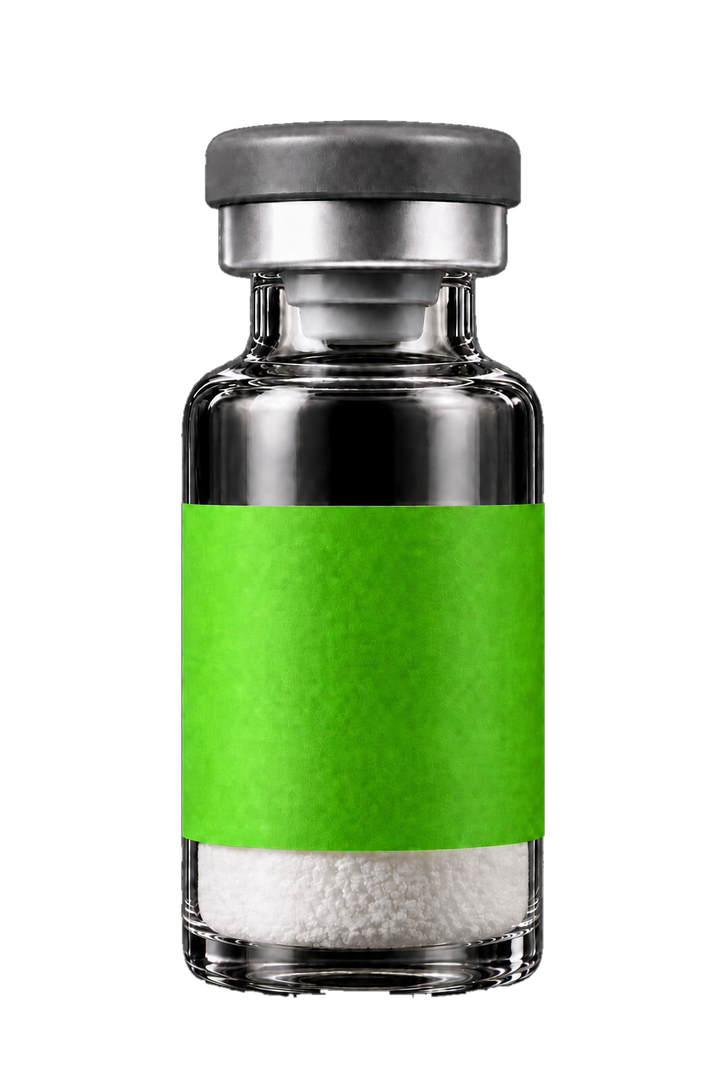
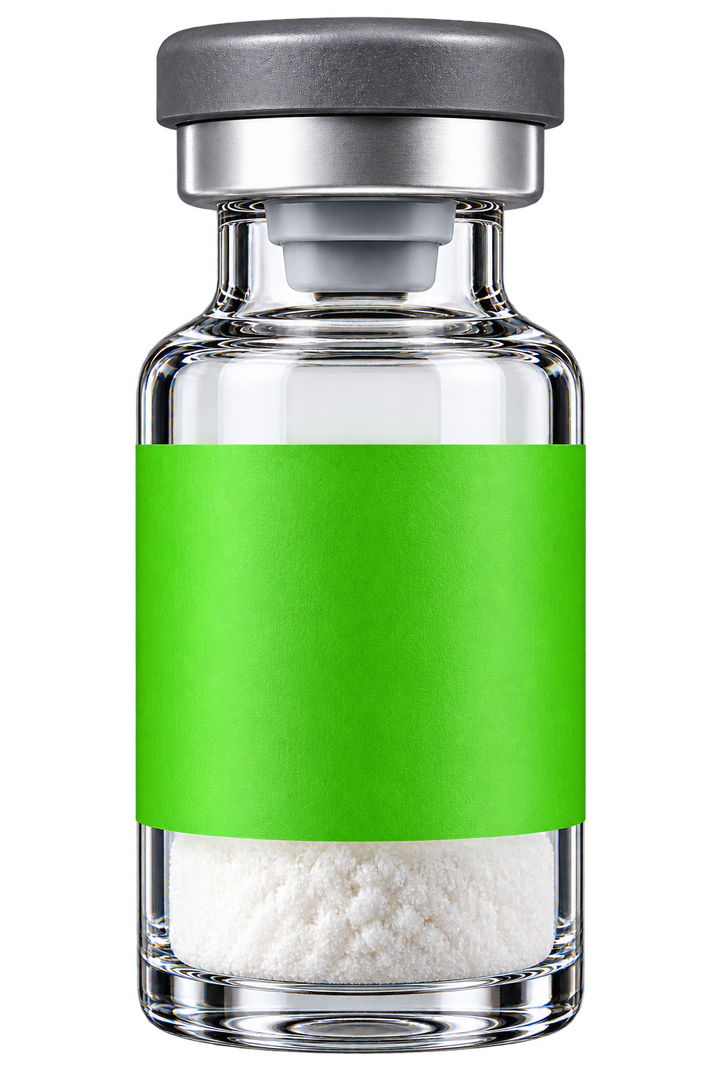
Undisclosed: your brighter 10 mL base, and one glass brightness for all sizes (#79)
Installs the new 10 mL white-powder base. Its glass is genuinely clear —
the empty shoulder measures 179 mean luminance against the old base's 68 —
so the 10 mL stops reading as a black bottle.

Downscaled to 720x1080 to match every other base. The source was 1024x1536,
and at that size a hero spin frame costs 17.5 ms, over the 16.7 ms budget
for 60 fps; at 720 it is 8.5 ms. The vial still lands sharper than before,
because it fills more of its frame in the new photo: 451 px of vial width
against the old 364 px.

That alone would only have moved the problem, because the glass pass ran a
fixed gamma on every base. The same curve applied to a bright photo and a
dark one leaves them exactly as far apart as they started, so with the new
base in place the 3 mL read smoky next to a 10 mL brighter than it — the
mirror image of the complaint that started this.

So the pass now targets a brightness instead of applying a curve. Each base
is measured on its own EMPTY SHOULDER — the band of bare glass between the
neck and the top of the label, which holds no powder and no paper — and
gets the gamma that lands that band on GLASS_TARGET. Bases shot lighter or
darker now finish at the same glass.

Measured on the composed vial, the four bases land at 127.0 / 132.4 /
126.5 / 139.8: a spread of 13 luminance where the fixed gamma left about
112. Per-frame cost is unchanged — the curve is built once per vial, not
per frame.
[…]

diff --git a/src/utils/udVialComposite.js b/src/utils/udVialComposite.js
@@ -302,36 +302,69 @@ function buildBaseGlass(base, green, liquid) {
 // mid-grey; composited onto the dark marble that reads as frosted silver rather than as something
 // you can see through. Real glass against a dark ground is mostly DARK with narrow bright
 // speculars, so the midtones are pulled down and the highlights left alone.
-const GLASS_GAMMA = 1.75, GLASS_CHROMA = 34;
-const GLASS_LUT = (() => {
-  const t = new Uint8ClampedArray(256);
-  for (let v = 0; v < 256; v++) t[v] = Math.round(255 * Math.pow(v / 255, GLASS_GAMMA));
-  return t;
-})();
+// Every clear-glass vial should land on the same brightness whichever photo shoot its base came
+// from, so the target is a brightness, not a curve. A fixed gamma cannot do that: the same curve
+// applied to a bright photo and a dark one leaves them exactly as far apart as they started,
+// which is why the 3 mL read smoky next to a 10 mL shot brighter than it.
+const GLASS_TARGET = 138, GLASS_CHROMA = 34;
+const GLASS_GAMMA_MIN = 0.55, GLASS_GAMMA_MAX = 2.4;
 
 /**
- * Pull the vial's clear glass down so it transmits instead of glowing. Only LOW-CHROMA pixels are
- * touched, so the powder stays white, the liquid stays red and a coloured cap is untouched; and
- * only below the neck, so the crimp keeps its weight. The curve leaves highlights nearly intact —
- * losing those would flatten the glass rather than clear it.
+ * Bring the vial's clear glass to the brightness real glass has against a dark ground: mostly
+ * dark, with narrow bright speculars left alone. Only LOW-CHROMA pixels are touched, so the
+ * powder stays white, the liquid stays red and a coloured cap is untouched; and only below the
+ * neck, so the crimp keeps its weight.
+ *
+ * The curve is derived per base rather than fixed. Each base is measured on its own EMPTY
+ * SHOULDER — the band of bare glass between the neck and the top of the label, which holds no
+ * powder and no paper — and gets the gamma that lands that band on GLASS_TARGET. So a base shot
+ * bright and a base shot dark finish at the same glass instead of staying as far apart as their
+ * photos were.
  */
-function transmitGlass(out, base) {
+function transmitGlass(out, base, labelTop = -1) {
   const { W, H, data } = base;
-  const wid = new Int32Array(H);
+  const rowL = new Int32Array(H).fill(-1), rowR = new Int32Array(H).fill(-1);
   let minY = H, maxY = 0;
   for (let y = 0; y < H; y++) {
     let xl = -1, xr = -1;
     for (let x = 0; x < W; x++) if (data[(y * W + x) * 4 + 3] > 60) { if (xl < 0) xl = x; xr = x; }
-    wid[y] = xl < 0 ? 0 : xr - xl + 1;
-    if (xl >= 0) { if (y < minY) minY = y; maxY = y; }
+    if (xl >= 0) { rowL[y] = xl; rowR[y] = xr; if (y < minY) minY = y; maxY = y; }
   }
   if (maxY <= minY) return;
   const vh = maxY - minY + 1;
   // The neck is the narrowest row in the upper third; everything above it is cap and crimp.
   let neck = minY, nw = 1 << 30;
   for (let y = minY + Math.round(vh * 0.06); y < minY + Math.round(vh * 0.34); y++) {
-    if (wid[y] > 0 && wid[y] < nw) { nw = wid[y]; neck = y; }
+    const w = rowL[y] < 0 ? 0 : rowR[y] - rowL[y] + 1;
+    if (w > 0 && w < nw) { nw = w; neck = y; }
   }
+
+  // Measure the empty shoulder. Inset from the silhouette so the bright rim highlight — which is
+  // specular, not transmission — does not drag the average up.
+  const mTop = neck + Math.round(vh * 0.03);
+  const mBot = labelTop > mTop + 4 ? labelTop - Math.round(vh * 0.012) : neck + Math.round(vh * 0.14);
+  let sum = 0, n = 0;
+  for (let y = mTop; y < mBot; y++) {
+    const lo = rowL[y]; if (lo < 0) continue;
+    const hi = rowR[y], inset = Math.round((hi - lo) * 0.25);
+    for (let x = lo + inset; x <= hi - inset; x++) {
+      const i = (y * W + x) * 4;
+      if (data[i + 3] < 200) continue;
+      const r = data[i], g = data[i + 1], b = data[i + 2];
+      const mx = r > g ? (r > b ? r : b) : (g > b ? g : b);
+      const mn = r < g ? (r < b ? r : b) : (g < b ? g : b);
+      if (mx - mn > GLASS_CHROMA) continue;
+      sum += 0.299 * r + 0.587 * g + 0.114 * b; n++;
+    }
+  }
+  if (!n) return;
+  const mean = Math.max(8, Math.min(247, sum / n));
+  let gamma = Math.log(GLASS_TARGET / 255) / Math.log(mean / 255);
+  if (gamma < GLASS_GAMMA_MIN) gamma = GLASS_GAMMA_MIN;
+  else if (gamma > GLASS_GAMMA_MAX) gamma = GLASS_GAMMA_MAX;
+  const lut = new Uint8ClampedArray(256);
+  for (let v = 0; v < 256; v++) lut[v] = Math.round(255 * Math.pow(v / 255, gamma));
+
   for (let y = neck + Math.round(vh * 0.01); y <= maxY; y++) {
     for (let x = 0; x < W; x++) {
       const i = (y * W + x) * 4;
@@ -340,7 +373,7 @@ function transmitGlass(out, base) {
       const mx = r > g ? (r > b ? r : b) : (g > b ? g : b);
       const mn = r < g ? (r < b ? r : b) : (g < b ? g : b);
       if (mx - mn > GLASS_CHROMA) continue; // coloured contents or cap — leave alone
-      out[i] = GLASS_LUT[r]; out[i + 1] = GLASS_LUT[g]; out[i + 2] = GLASS_LUT[b];
+      out[i] = lut[r]; out[i + 1] = lut[g]; out[i + 2] = lut[b];
     }
   }
 }
@@ -522,7 +555,7 @@ export async function prepareVialCompositor({ svg, vialMl, baseSrc, ss = BASE_SS
     // needs to look clear, and because it was skipped on 10 mL bases it also made the 3 mL vials
     // read milkier than the 10 mL ones — the glass now matches across every size.
     const baseBack = new Uint8ClampedArray(base.data);
-    transmitGlass(baseBack, base);
+    transmitGlass(baseBack, base, green.top);
     // Optional cap recolour (landing showcase) — dome + crimp collar in two coordinated tints.
     if (capTint) tintCap(baseBack, base, capTint, crimpTint || capTint, capFinish);
     return { base, ld, lw: dims.w, lh: dims.h, green, liquid, baseBack };
